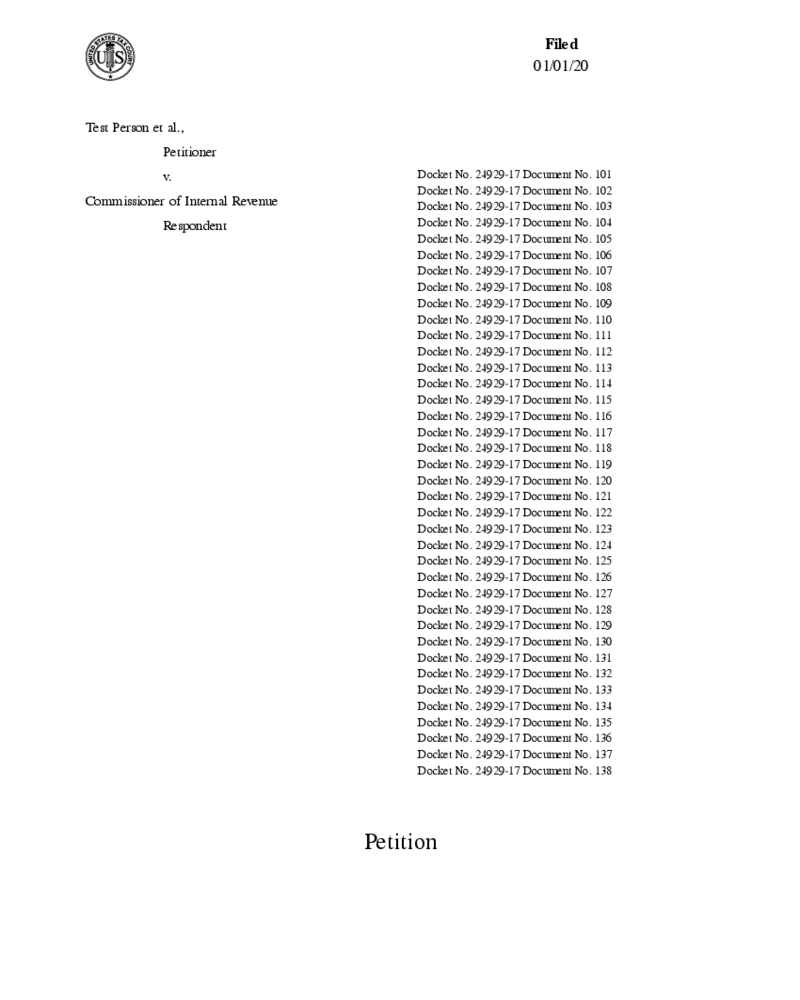
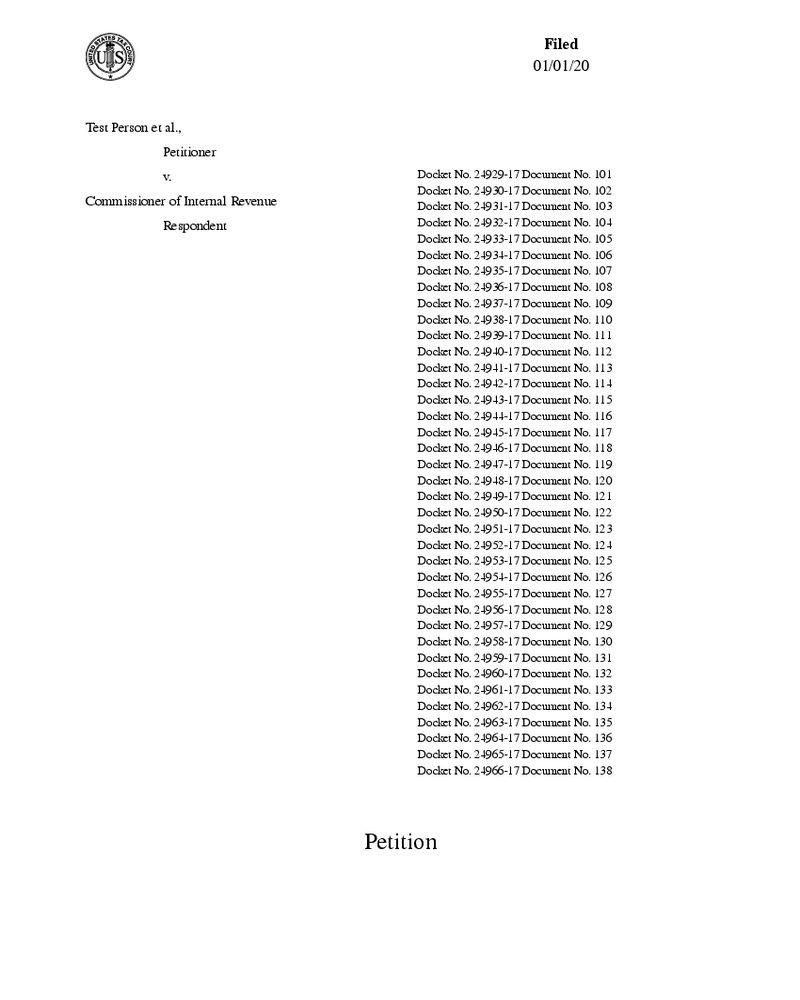
9501: increment docket number on consolidated coversheet for test

diff --git a/shared/src/business/utilities/documentGenerators/coverSheet.test.js b/shared/src/business/utilities/documentGenerators/coverSheet.test.js
@@ -104,7 +104,7 @@ describe('documentGenerators', () => {
           caseCaptionExtension: PARTY_TYPES.petitioner,
           caseTitle: 'Test Person',
           consolidatedCases: new Array(38).fill(null).map((v, i) => ({
-            docketNumber: '24929-17',
+            docketNumber: `${24929 + i}-17`,
             documentNumber: i + 101,
           })),
           dateFiledLodged: '01/01/20',
